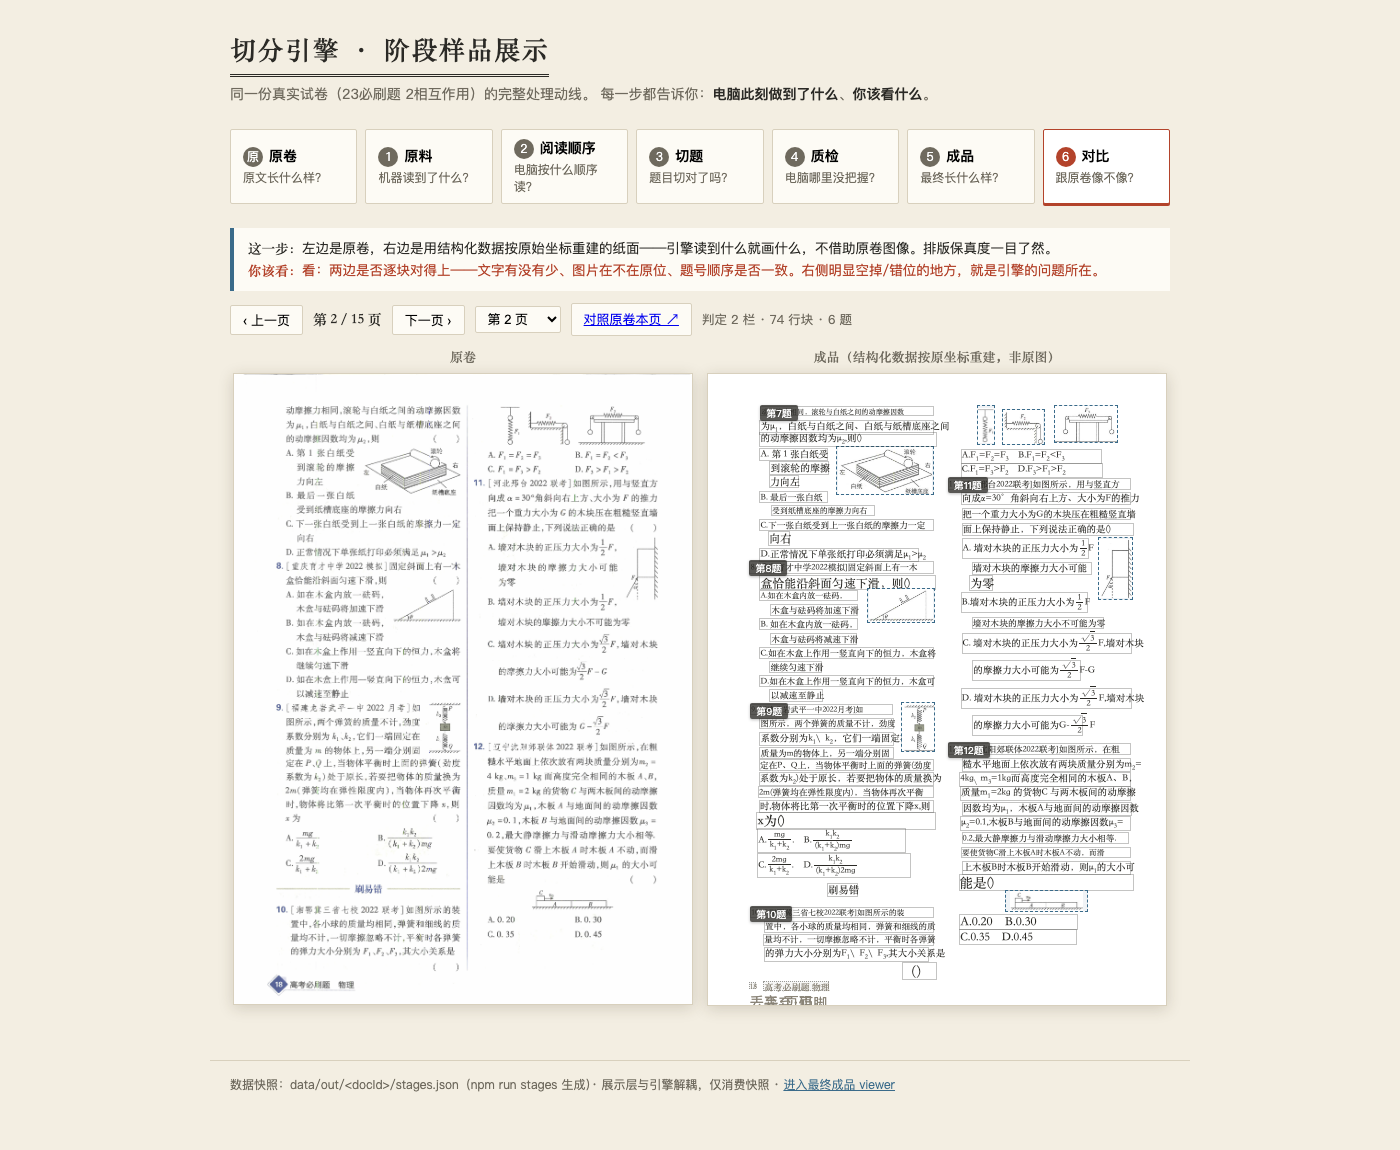
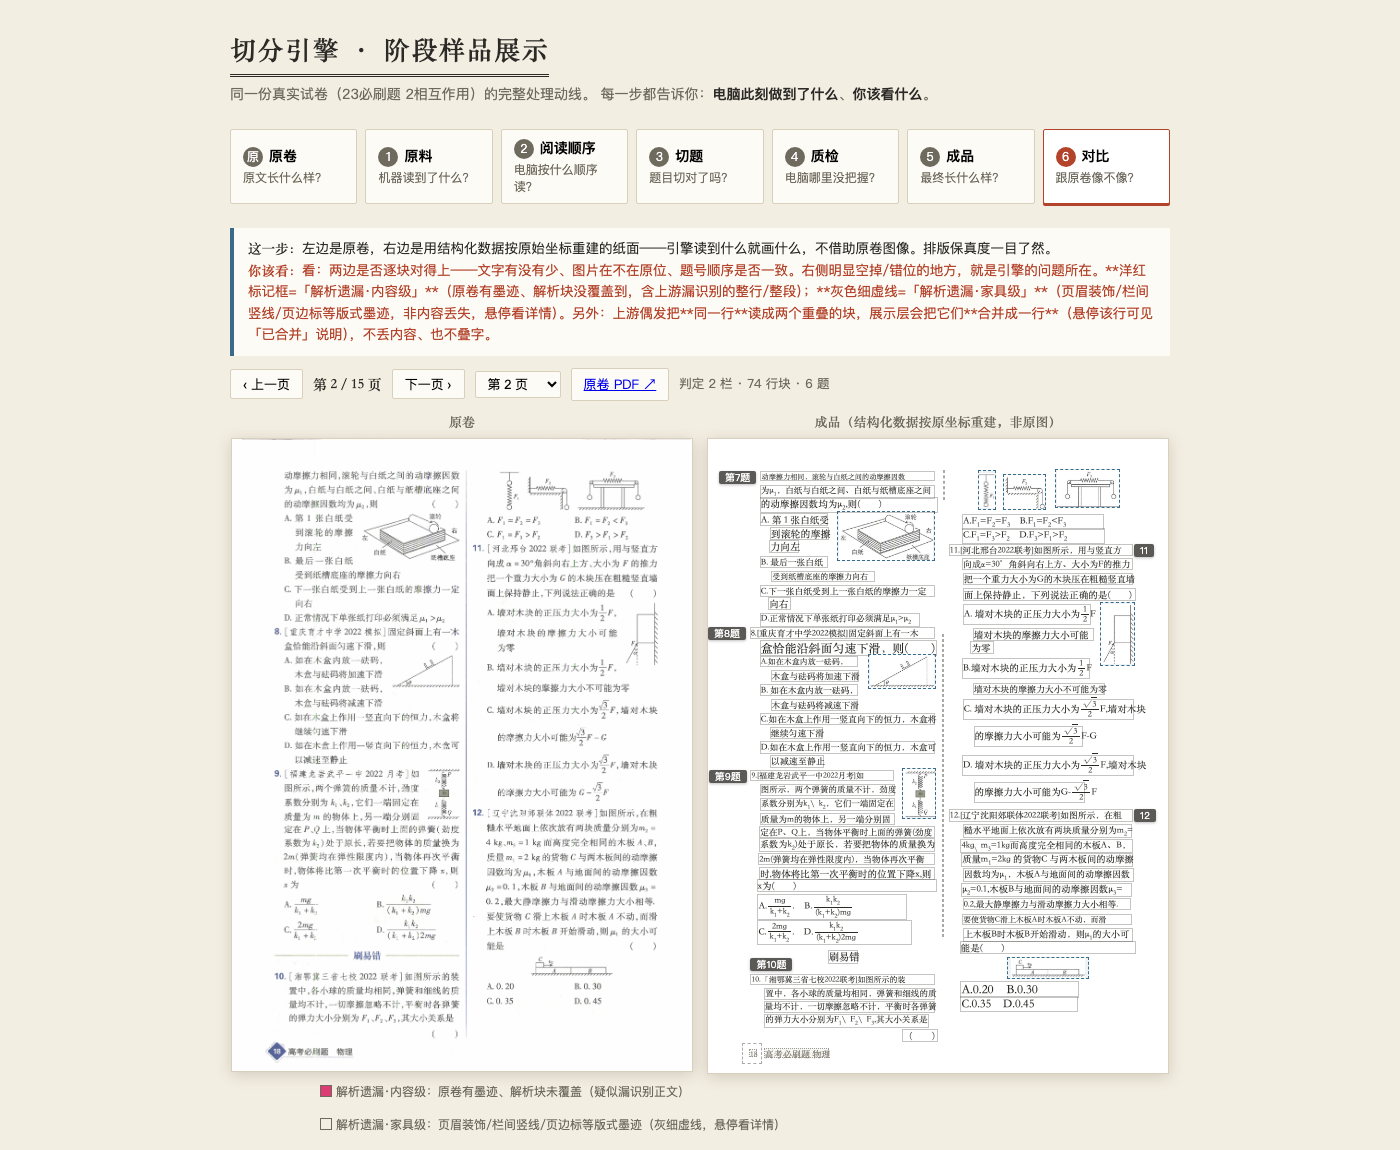
docs: 2026-10-10 收口（对比模式修复 5 类问题 + 审板截图重拍 + 待办）
- 对比模式：窄窗口折行 → 永远并排（栏宽按可用宽度动态算）；origin.pdf MIME 修正
- 题号牌/丢弃块标签改为不压正文的落位；段外 ~ 的区间语义保留
- emWidthOf 的 ASCII 宽度改逐字实测（溢出块 ~60 → 31，剩余几乎全为豁免的公式块）
- 15 页对比截图 + 阶段 1/2/3 代表页按当前代码重拍

Changed region(s): [[0.1536, 0.213, 0.86, 1.0]]

diff --git a/tasks/todo.md b/tasks/todo.md
@@ -98,3 +98,43 @@
 - 180 块 `rh∈[1.05,1.4)` 轻微偏高（按裁定不压，宁可漏判不误判）。
 - 画布边界裁切（已登记未闭合风险）。
 - 扩数据面（换不同版面真卷）—— 多处阈值都带「本卷标定」性质，换卷需重标定。
+
+## 2026-10-10（用户：「对比功能没了」+「再仔细比一遍」）
+
+### 用户报的「对比功能没了」——**功能没删，是窄窗口折行堆叠**
+
+- `.compare-wrap` 的 `flex-wrap: wrap` + 两栏写死 460px：窗口窄于 ~934px（如 IDE 预览面板）
+  两栏**折行成上下堆叠**，看起来就是并排没了。实测 900px 下确实堆叠。
+- 「对照原卷本页」按钮指向 `origin.pdf`，服务端 MIME 表**没有 `.pdf`** → `application/octet-stream`
+  → 浏览器下载/空白页。两处都修了。
+
+### 本轮修的 5 类问题（都已提交、都有实测证据）
+
+| 问题 | 实测证据 |
+|---|---|
+| 对比模式窄窗口折行 | 700/900/1400px 三档 `SAME_ROW=true`，栏宽 314/414/462 |
+| `origin.pdf` MIME 错 | `content-type` 由 `application/octet-stream` → `application/pdf` |
+| **题号牌压正文**（15 页约 90 处、每处 400–750px²） | 修后 15 页 **0 处**（p15 剩 10px²） |
+| **段外 `~` 被当 LaTeX 空格换掉**（`T1~2` → `T1 2`，区间语义丢失） | 原卷页眉 400dpi 裁图可见 `T1 ~2、4 ~5` |
+| **丢弃块标签堆叠压页眉**（每页 3–4 处约 550px²） | 改为默认隐藏、悬停显示 → 0 处 |
+| **`emWidthOf` 一律按 0.5em 估 ASCII**（偏 6–8%） | 实测字母 0.177–0.917；溢出块 ~60 → 31 |
+
+### 数据层完整性复核（本轮新增的两项检查）
+
+- **反向墨迹检查**（有块渲染文字、但原卷那个位置是空白 = 幻影内容）：**0 个幻影块**（最低墨迹密度 1.17%）。
+- **CJK 序列逐行比对**（`preproc_blocks` vs 快照）：**0 行丢失**。
+
+### 方法论教训
+
+1. **`Range` 矩形高度是字体 ascent/descent（≈1.4em），不是墨迹** —— 用它判碰撞会把正常行距误判成叠字。
+   本项目已第二次踩（Task 3/6 之后）。判遮挡一律用墨迹口径。
+2. **常数都该问「量过吗」**：ASCII 一律 0.5em 是臆断，实测偏 6–8%，而它正是夹子宽度保证失效的根因。
+3. **子代理全量视觉细查有效，但看不出 DOM 可量化的遮挡** —— 视觉 + 量化两条都要跑。
+
+### 仍未闭合（都不是本轮范围内的缺陷）
+
+- **31 处「解析遗漏·内容级」= 上游 OCR 漏识别**（`full.md`/`content_list_v2` 里也没有），
+  **只能标记不能复原**；复原需 OCR（新能力，要单独决策）。
+- 公式块横向溢出（按裁定豁免夹子）仍最大 +30px，靠视觉审板兜。
+- 画布边界裁切（已登记未闭合风险）；180 块 `rh∈[1.05,1.4)` 轻微偏高（按裁定不压）。
+- 扩数据面（换不同版面真卷）—— 多处阈值带「本卷标定」性质，换卷需重标定。
